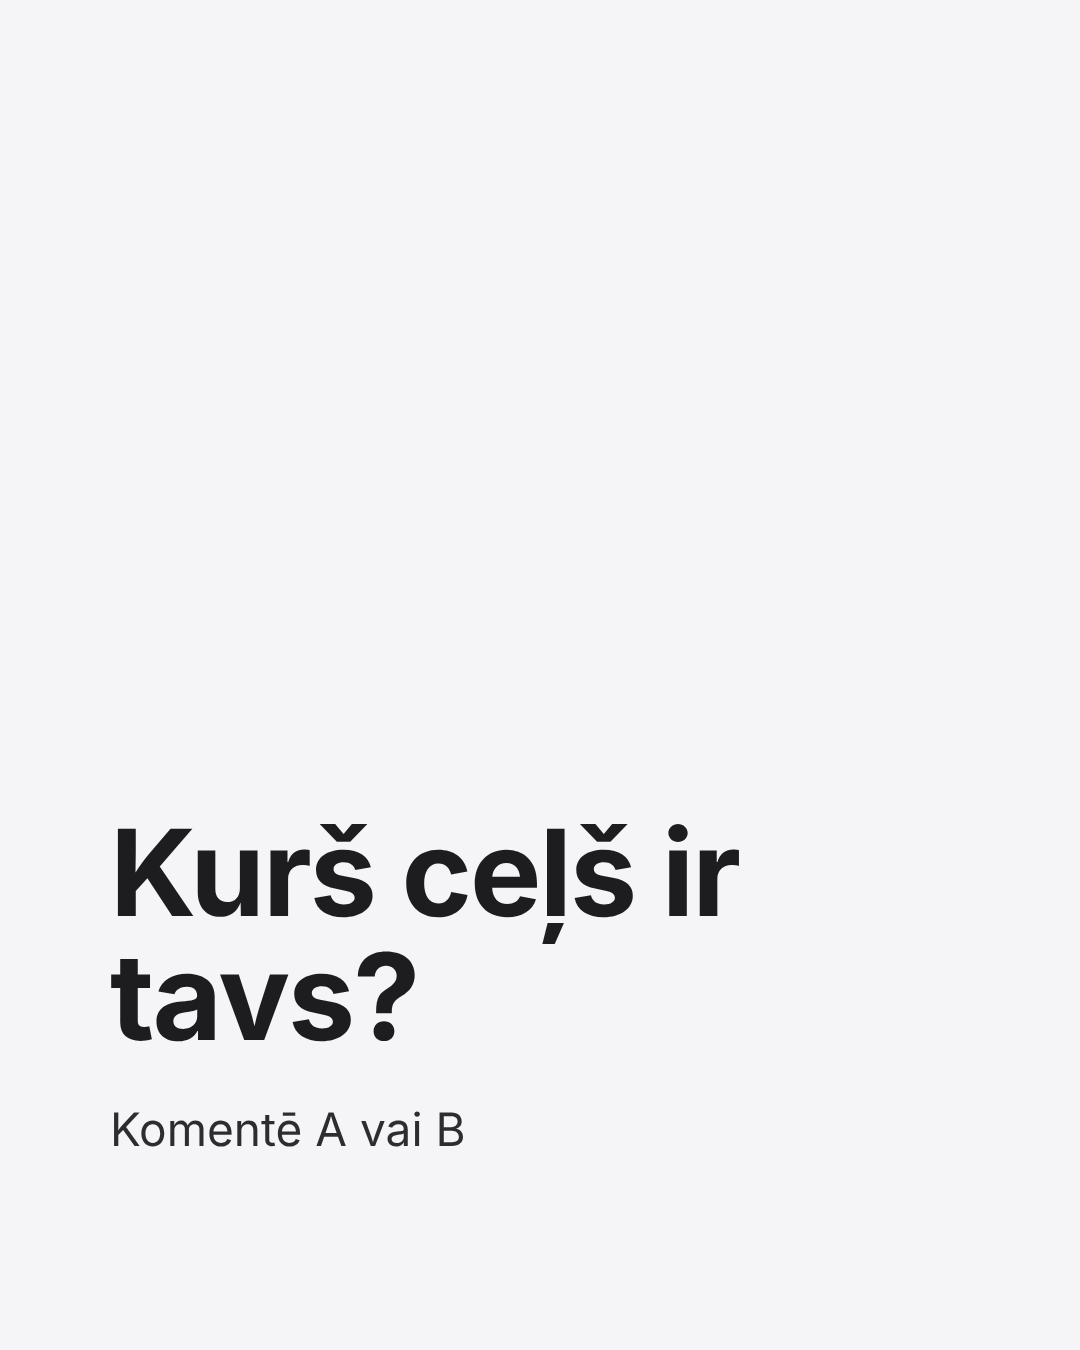
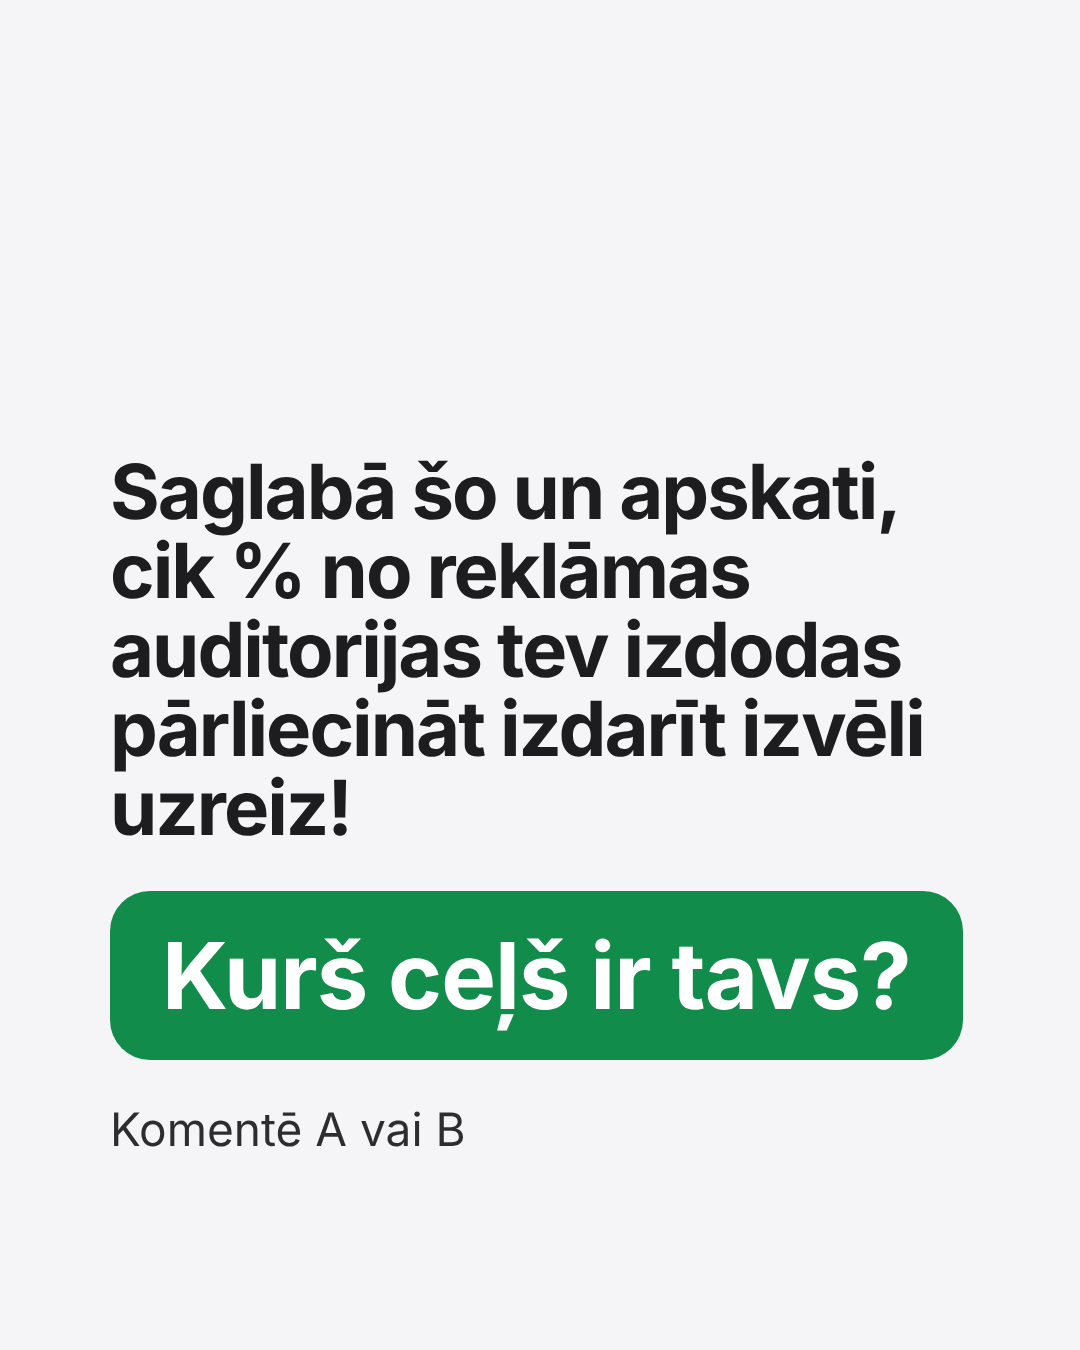
Funnel v3 closing slide: large save CTA above green question pill
Claude-Session: https://claude.ai/code/session_01BfJAaEZY2EfD7nu2Y1Q1pB

Changed region(s): [[0.0917, 0.3422, 0.9167, 0.8089]]

diff --git a/brand/zimols/render.js b/brand/zimols/render.js
@@ -79,8 +79,9 @@ function slide(s) {
       ${s.footer ? `<div class="footer">${s.footer}</div>` : ''}</div></div>`;
   }
   if (s.type === 'question') {
+    const top = s.top ? `<div class="display" style="font-size:${s.topSize || 76}px;margin-bottom:44px">${s.top}</div>` : '';
     const head = s.plain ? `<div class="display" style="font-size:${s.headlineSize || 120}px">${s.headline}</div>` : `<div class="qpill">${s.headline}</div>`;
-    return `<div class="s bg-${s.bg || 'paper'}"><div class="pad">${head}${s.sub ? `<div class="sub" style="margin-top:40px">${s.sub}</div>` : ''}</div></div>`;
+    return `<div class="s bg-${s.bg || 'paper'}"><div class="pad">${top}${head}${s.sub ? `<div class="sub" style="margin-top:40px">${s.sub}</div>` : ''}</div></div>`;
   }
   throw new Error('unknown slide type ' + s.type);
 }
